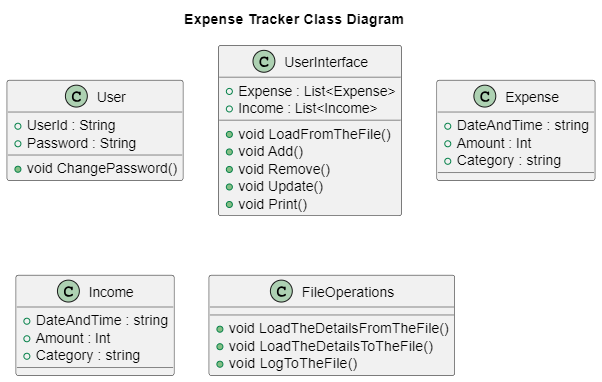
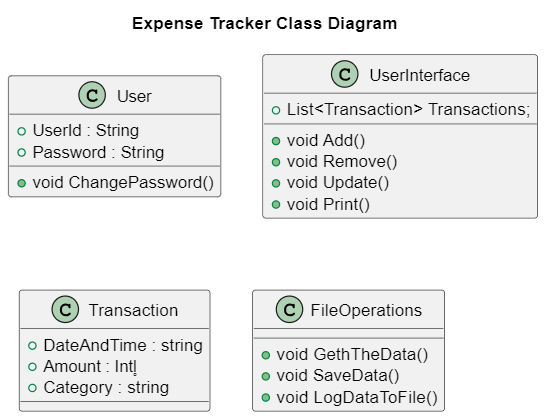
fix : changes in puml file

Changed region(s): [[0.0, 0.1152, 0.9963, 0.5759], [0.0, 0.6911, 0.8095, 1.0], [0.2179, 0.0288, 0.7473, 0.0864]]

diff --git a/src/Phase2Task/Phase2Task/ExpenseTracker/Readme.md b/src/Phase2Task/Phase2Task/ExpenseTracker/Readme.md
@@ -22,6 +22,34 @@ It is a console application to track the expense and income of the individual or
 
 8. Log the messages into the log file. Easier to debug later if any error occurred in future.
 
+## Class and Module
+
+### Expense Class
+
+- The Expense Class Contains the DateTime, Amount, Category to get and store the value form of the list to CRED Operations to performed.
+
+- The Expense Class Constructor that used to change the values present in the class.
+
+## Income Class
+
+- The Income Class Contains the DateTime, Amount, Source to get and store the values form of the list to CRED Operations.
+
+- The income Class Constructor that used to  change the field present in the class.
+
+## File Operation
+
+- Method `GetData` it will retrieve the data from the json serialize the data from the file.
+
+- Method `SavingData` it will save the list to the file.
+
+- Method `LogTheFile` it will take the log messages from the program to the file based on text.
+
+## User Interface
+
+- The `User Interface` class will ask the user to perform the which type of the operation to be performed.
+
+- CRED Methods in the User Interface will get the input from the user and changes values according to it.
+
 ### UML Class Diagram
 
 ![Alt text](ExpenseTrackerClassDiagram.png)
